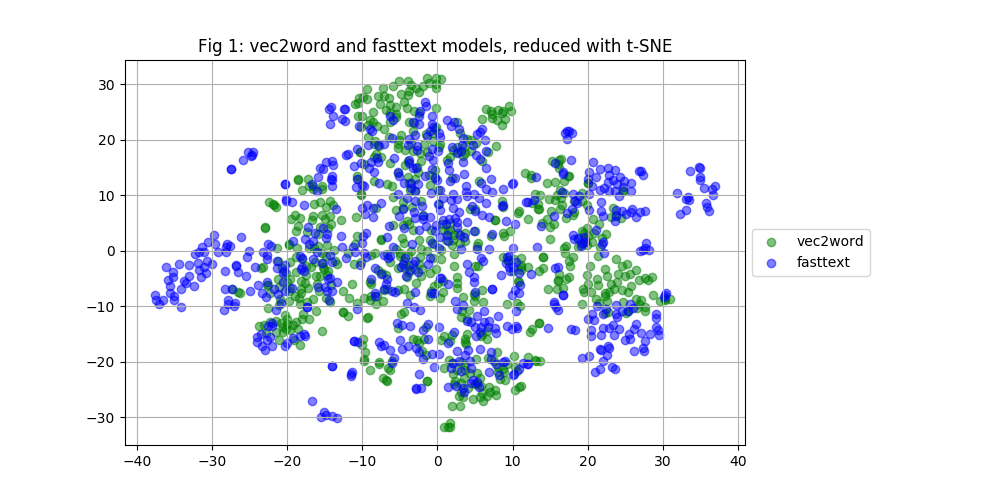
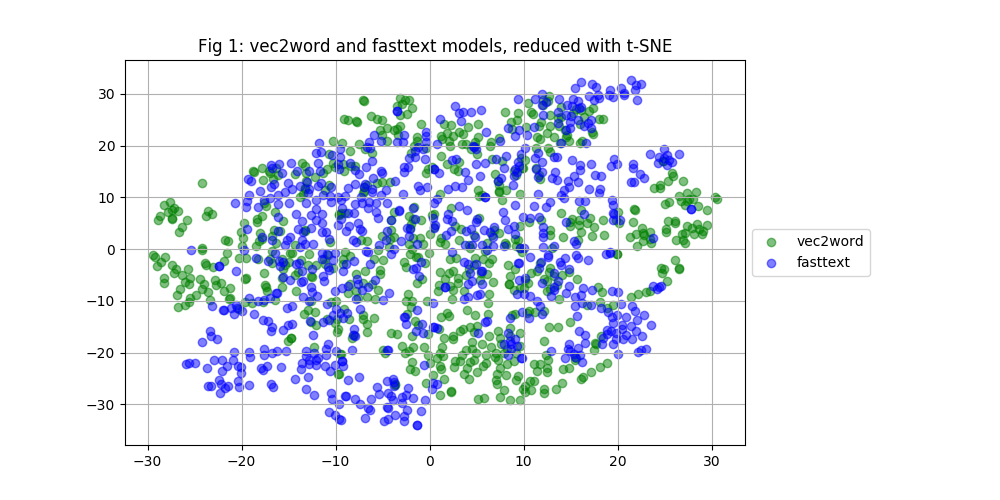
Draft of blogpost 04

diff --git a/04_word_embeddings/04_word_embeddings.py b/04_word_embeddings/04_word_embeddings.py
@@ -142,23 +142,7 @@ def plot_distances_between_vectors(X, model, vocab, words, labels, show=False):
     if show: plt.show()
 
     plt.savefig("img/fig3_distances_of_vectors.png")
-    """
-    # get correlation matrix
-    corr = iris.corr()
-    fig, ax = plt.subplots()
-    # create heatmap
-    im = ax.imshow(corr.values)
-    
-    # set labels
-    ax.set_xticks(np.arange(len(corr.columns)))
-    ax.set_yticks(np.arange(len(corr.columns)))
-    ax.set_xticklabels(corr.columns)
-    ax.set_yticklabels(corr.columns)
-    
-    # Rotate the tick labels and set their alignment.
-    plt.setp(ax.get_xticklabels(), rotation=45, ha="right",
-             rotation_mode="anchor")
-    """
+
 
 
 
@@ -221,6 +205,6 @@ if __name__ == '__main__':
     colors = [ 'g', 'b']
     labels = ['vec2word', 'fasttext']
 
-    #plot(X, vocab, colors, labels, show=False)
-    #plot_party_names(X, model, vocab, PARTIES, colors, labels, show=False)
+    plot(X, vocab, colors, labels, show=False)
+    plot_party_names(X, model, vocab, PARTIES, colors, labels, show=False)
     plot_distances_between_vectors(X, model, vocab, PARTIES, labels, show=False)

diff --git a/04_word_embeddings/data_loader.py b/04_word_embeddings/data_loader.py
@@ -103,6 +103,8 @@ class DataLoader:
         words = self.remove_punctuation(words)
         words = self.replace_numbers(words)
         words = self.remove_stopwords(words, lang)
+        words = self.stem_words(words)
+        words = self.lemmatize_verbs(words)
         return words
 
     '''

diff --git a/04_word_embeddings/README.md b/04_word_embeddings/README.md
@@ -9,14 +9,47 @@
 
 ## Intro
 
-In last weeks blogpost I wrote about using tf-idf vectorization and t-SNE dimensionality reduction for investigations on Wikipedia articles of all 709 members of the German Bundestag. In this weeks blogpost I continue this research by keeping the same source data. Nevertheless this week is about _word embeddings_.
+In last weeks blogpost I wrote about using tf-idf vectorization and
+t-SNE dimensionality reduction for investigations on Wikipedia articles
+of all 709 members of the German Bundestag. In this weeks blogpost I
+continue this research by keeping the same source data. Nevertheless
+this week is about _word embeddings_.
 
 ## Approach
 
-To evaluate the possibilities of word embeddings, I decided to compare the results of the two popular word embeddings algorithms  _vec2word_ and _fasttext_, which both are available within the _gensim_ Python library. As the interfaces are implemented similar within the framework, a comparable parameterization is possible, which provides a good comparability of the results.
+To evaluate the possibilities of word embeddings, I decided to compare
+the results of the two popular word embeddings algorithms _vec2word_ and
+_fasttext_, which both are available within the _gensim_ Python library.
+As the interfaces are implemented similar within the framework, a
+comparable parameterisation is possible, which provides a good
+comparability of the results. 
+
+In order to increase the processability of the texts by the algorithms,
+I have fundamentally revised the preprocessing pipeline compared to last
+week. It now consists of the following steps:
+
+* Tokenization
+* Removal of non ASCII characters
+* Conversion to lower case
+* Removal of punctuation
+* Replacement of numbers
+* Removal of stop words
+* Stemming of words
+* Lemmatizing of words
 
 ## Results
 
+
+
+
+```
+    size = 200
+    window = 5
+    min_count = 50
+    sentences = df['article'] 
+    total_examples = len(df['article'])
+    epochs = 10
+```
 
 ![Fig 1](img/fig1_plot.png)
 
